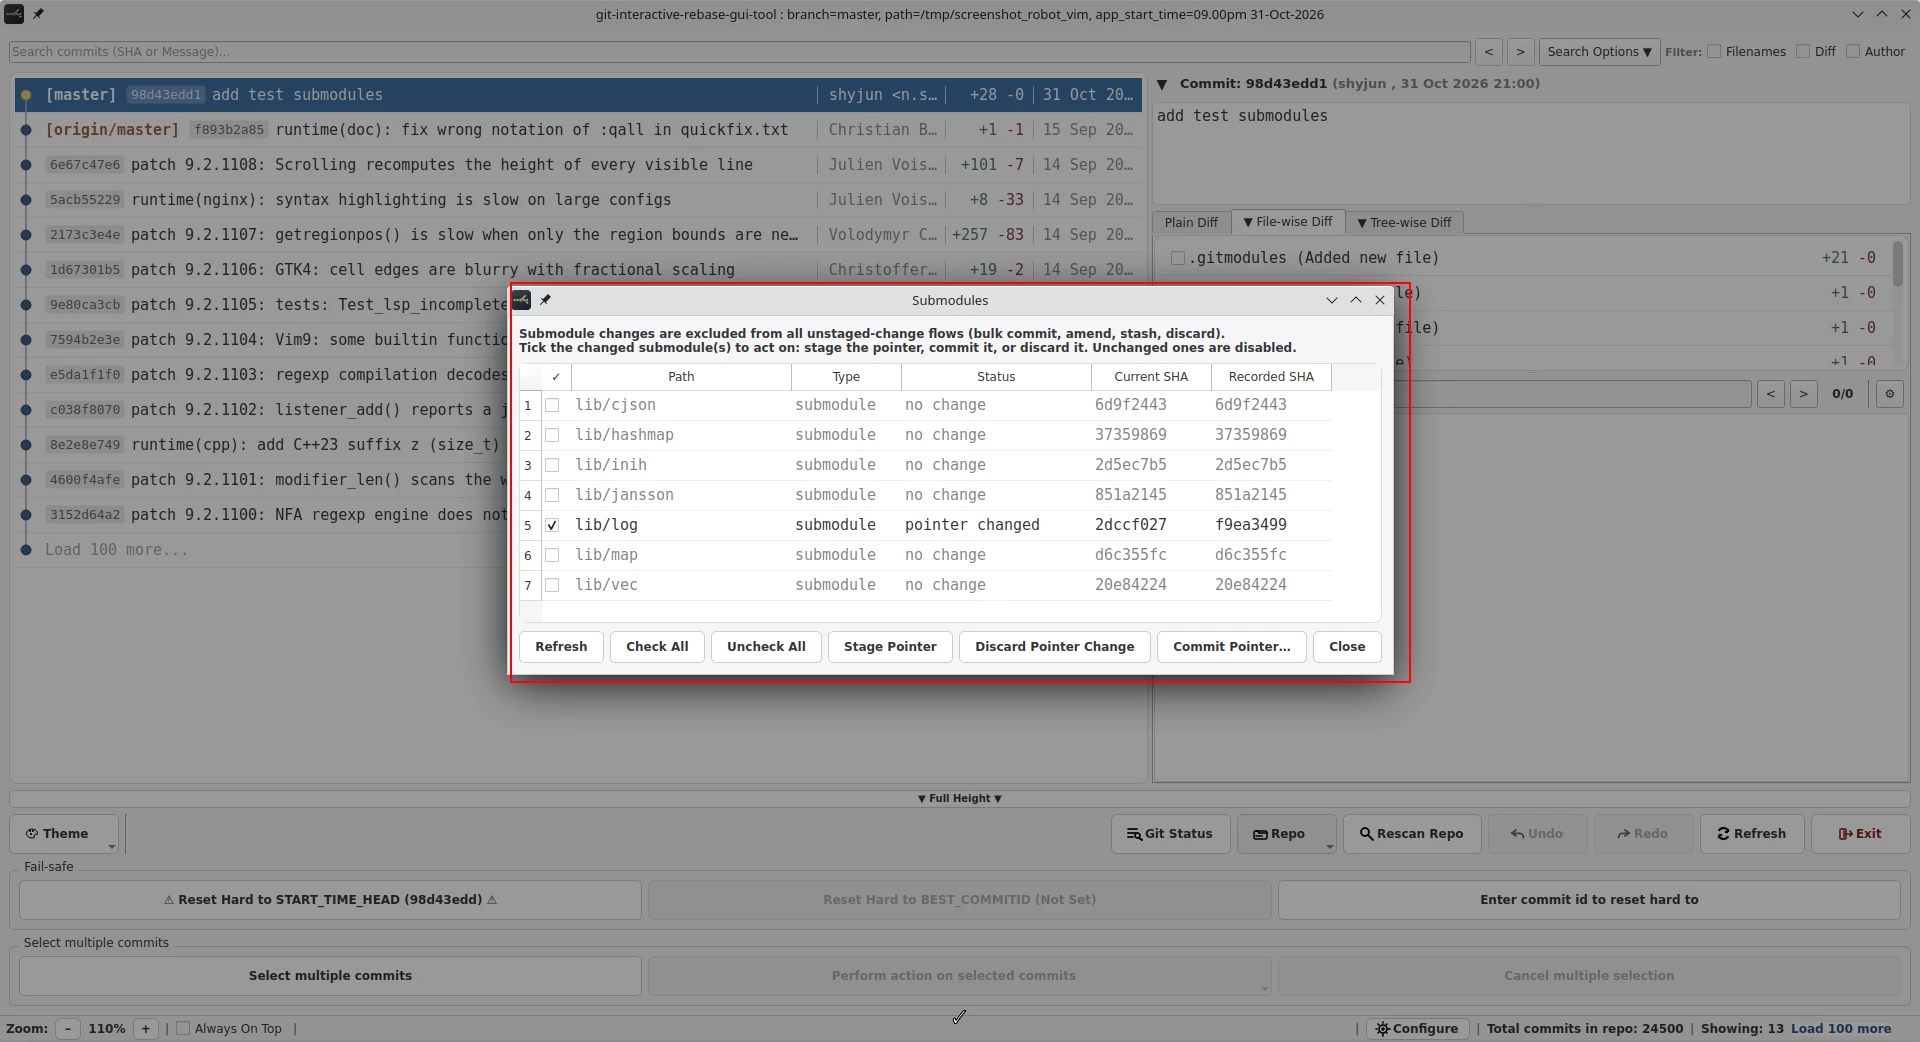
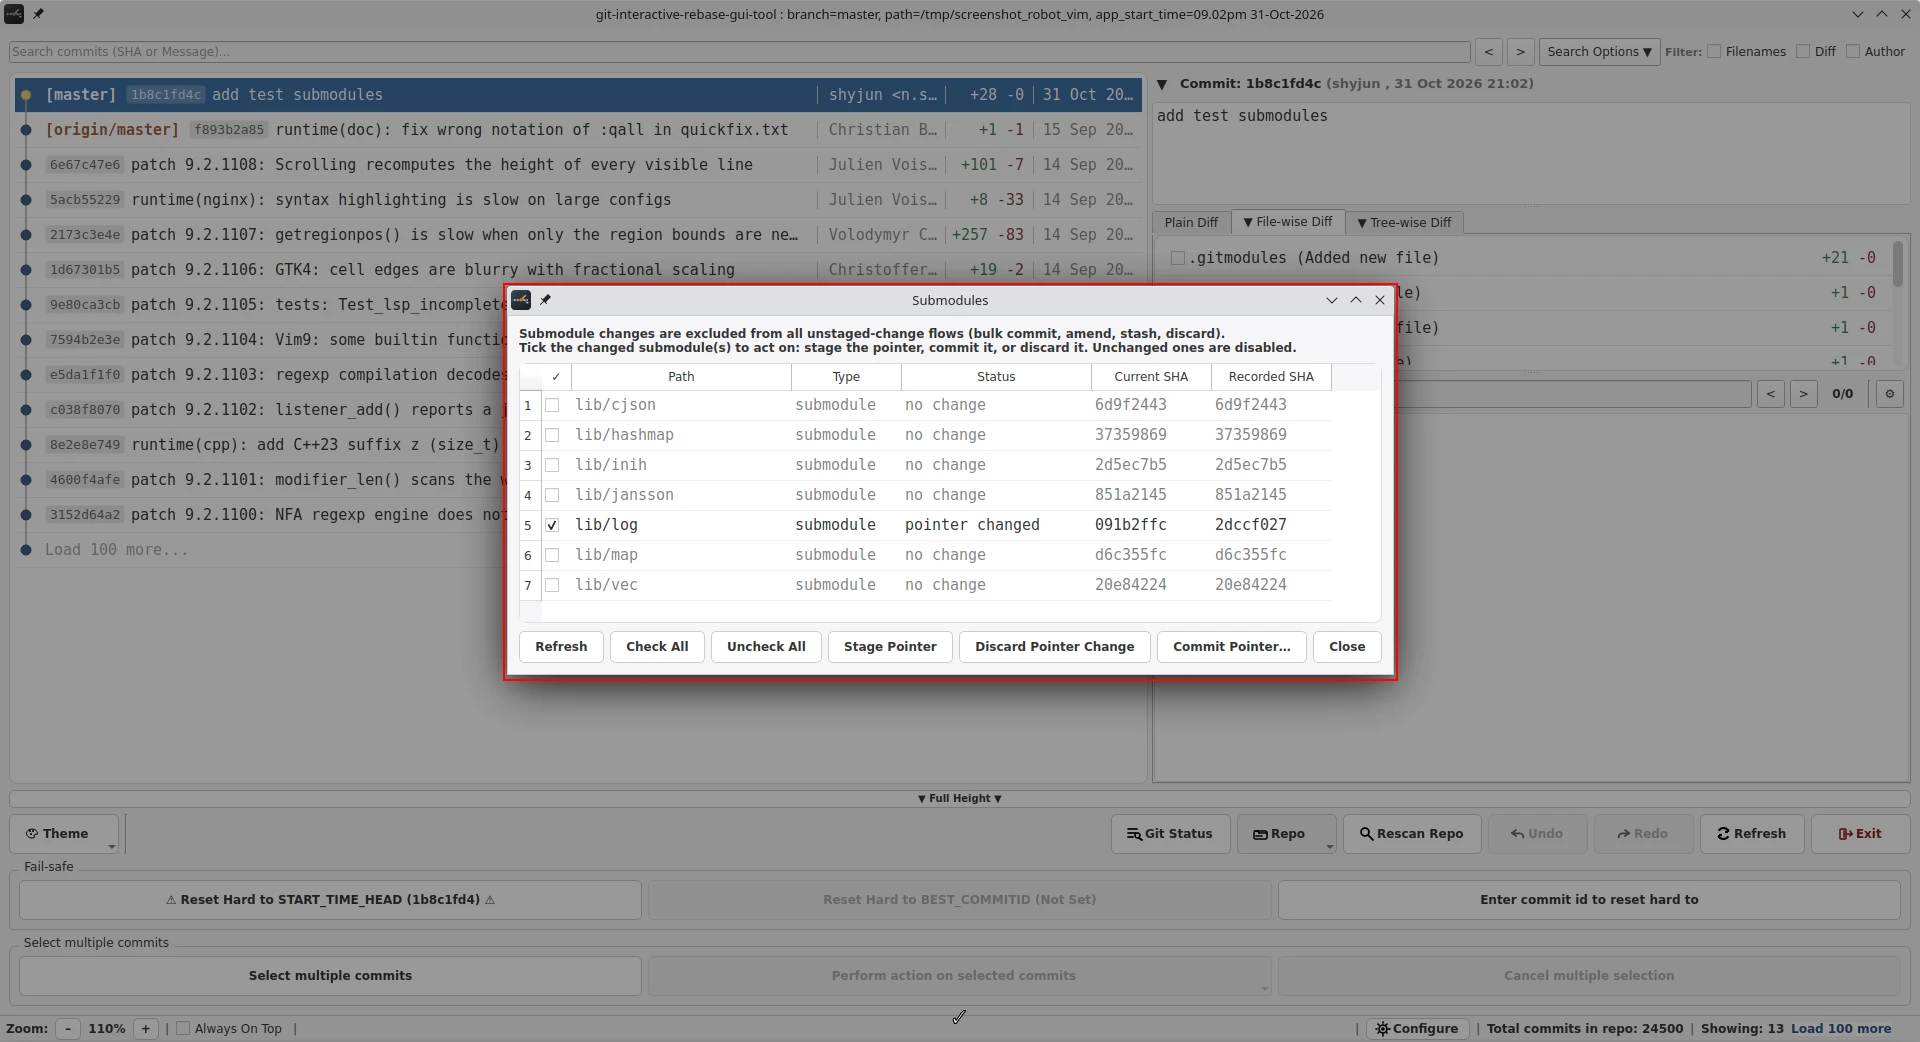
capture: submodule-manager.webp

diff --git a/scenes/submodule-manager.py b/scenes/submodule-manager.py
@@ -24,8 +24,8 @@ SUBMODULES = [
     ("https://github.com/rxi/map.git", "lib/map"),
 ]
 
-# The one we advance to show "pointer changed" (2nd entry, lib/log)
-ADVANCE_PATH = SUBMODULES[1][1]
+# The ones we advance to show "pointer changed" (log, inih, vec)
+ADVANCE_PATHS = [SUBMODULES[1][1], SUBMODULES[3][1], SUBMODULES[4][1]]
 
 
 def main():
@@ -37,11 +37,12 @@ def main():
     repo.run("add", ".gitmodules")
     repo.run("commit", "-m", "add test submodules")
 
-    with open(repo.path / ADVANCE_PATH / "readme.txt", "a") as fh:
-        fh.write("modified\n")
-    sub_log = str(repo.path / ADVANCE_PATH)
-    repo.run("-C", sub_log, "add", "readme.txt")
-    repo.run("-C", sub_log, "commit", "-m", "advance pointer")
+    for sub_path in ADVANCE_PATHS:
+        with open(repo.path / sub_path / "readme.txt", "a") as fh:
+            fh.write("modified\n")
+        sub_log = str(repo.path / sub_path)
+        repo.run("-C", sub_log, "add", "readme.txt")
+        repo.run("-C", sub_log, "commit", "-m", "advance pointer")
 
     tool = Tool(args=["HEAD~13"], log_name="submodule-manager.log")
     try:
@@ -62,7 +63,7 @@ def main():
         tool.sleep(1.5)
         img = capture(
             tool,
-            description="Submodules dialog: 7 registered libs, lib/log pointer changed",
+            description="Submodules dialog: 7 libs, log/inih/vec pointer changed",
             size=(1920, 1042),
         )
         img.draw_box(BOXES)
